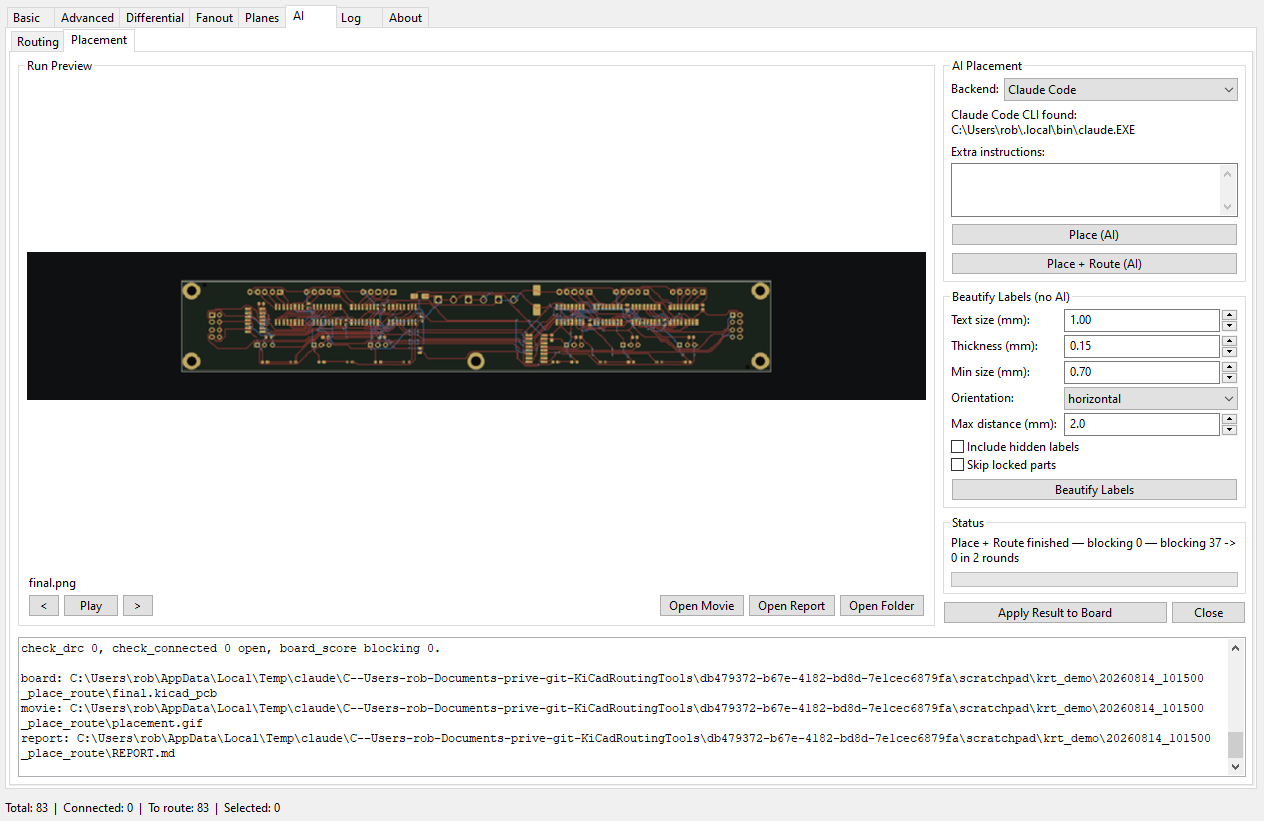
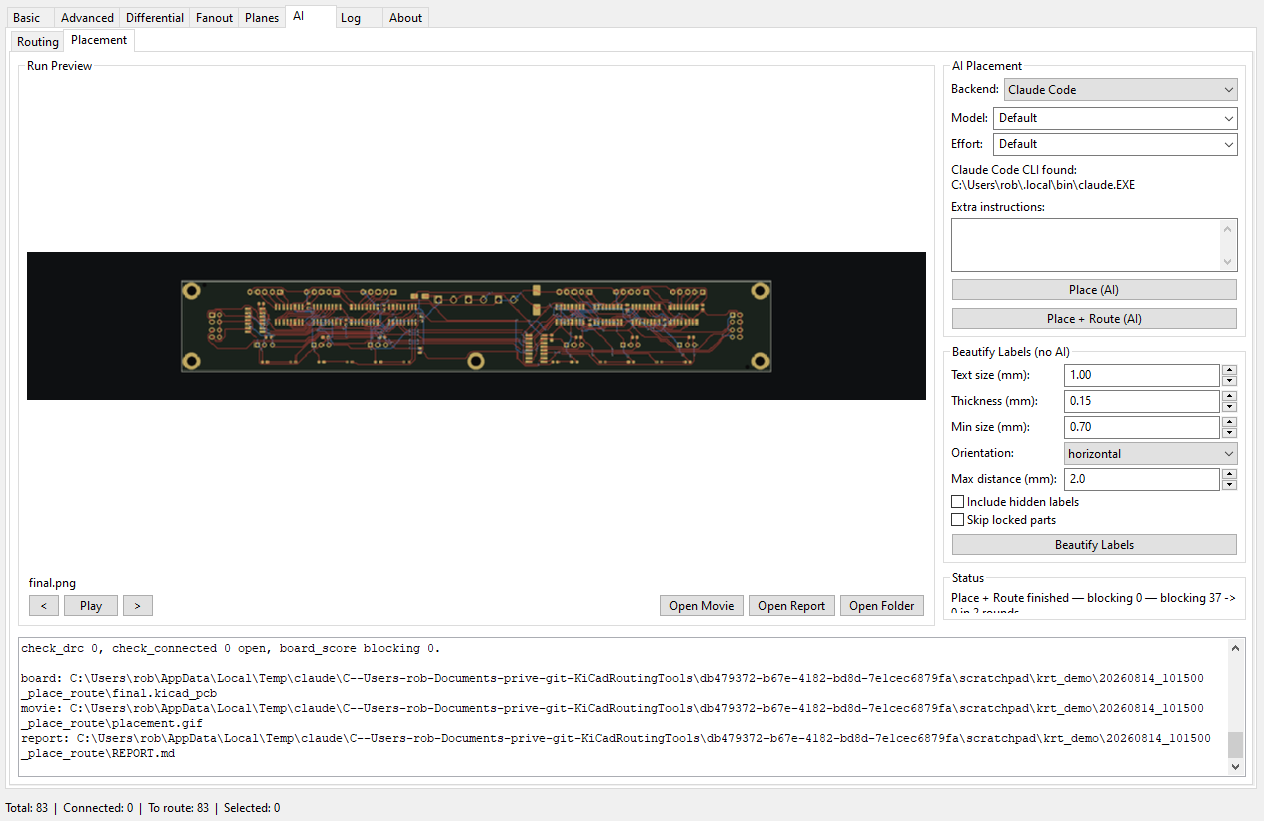
Placement sub-tab: own Model/Effort dropdowns
The tab no longer borrows the AI tab's Claude entries: it gets its own
editable Model/Effort combos under the Backend dropdown (suggestions +
tooltips from the selected backend; "Default" = pass no flag), repopulated
on backend change with a typed value preserved. swig_gui drops the
_placement_ai_params bridge; reset-all resets the trio; settings persist
placement_model/placement_effort (roundtrip gate: 185 keys clean).

Pinned end to end: the fake CLI dumps its argv, and the gate asserts a
model/effort chosen in the dropdowns arrives as --model/--effort in the
launched command (29 checks clean). docs screenshots refreshed.

Claude-Session: https://claude.ai/code/session_014oJarAtMDKL3eVoGxynPMe

Changed region(s): [[0.7405, 0.1218, 0.9873, 0.7613]]

diff --git a/kicad_routing_plugin/placement_gui.py b/kicad_routing_plugin/placement_gui.py
@@ -49,6 +49,9 @@ for _sib in ('py_placer', 'py_tools'):
 
 MODE_LABELS = {"place": "Place", "place_route": "Place + Route"}
 
+# "Default" combo entry = don't pass the model/effort flag (ai_gui convention).
+DEFAULT_CHOICE = "Default"
+
 # Transcript control cap: an hours-long stream-json run grows without bound;
 # when the text exceeds the cap the oldest quarter is dropped.
 _TRANSCRIPT_CAP = 1024 * 1024
@@ -420,15 +423,13 @@ class PlacementTab(wx.Panel):
     """Placement sub-tab of the AI notebook (see module docstring)."""
 
     def __init__(self, parent, pcb_data, board_filename, on_complete=None,
-                 append_log=None, sync_pcb_data_callback=None,
-                 get_claude_params=None):
+                 append_log=None, sync_pcb_data_callback=None):
         super().__init__(parent)
         self.pcb_data = pcb_data
         self.board_filename = board_filename
         self.on_complete = on_complete
         self.append_log = append_log or (lambda text: None)
         self.sync_pcb_data_callback = sync_pcb_data_callback
-        self.get_claude_params = get_claude_params
         # The backend dropdown shows every harness but only
         # PLACEMENT_SUPPORTED_BACKENDS can actually be selected (today:
         # Claude Code - the skills must write, and e.g. opencode's analysis
@@ -477,11 +478,22 @@ class PlacementTab(wx.Panel):
         self.backend_choice.SetToolTip(
             "Harness that drives the placement skills. Only Claude Code is "
             "supported today (placement runs must WRITE, and the other "
-            "harnesses' agents deny edits); more harnesses later. "
-            "Model/effort come from the AI tab's Claude entries.")
+            "harnesses' agents deny edits); more harnesses later.")
         self.backend_choice.Bind(wx.EVT_CHOICE, self._on_backend_choice)
         backend_row.Add(self.backend_choice, 1)
         ai_sizer.Add(backend_row, 0, wx.EXPAND | wx.ALL, 3)
+        sel_grid = wx.FlexGridSizer(cols=2, vgap=3, hgap=4)
+        sel_grid.AddGrowableCol(1)
+        sel_grid.Add(wx.StaticText(self, label="Model:"), 0,
+                     wx.ALIGN_CENTER_VERTICAL)
+        self.model_choice = wx.ComboBox(self, value=DEFAULT_CHOICE, choices=[])
+        sel_grid.Add(self.model_choice, 0, wx.EXPAND)
+        sel_grid.Add(wx.StaticText(self, label="Effort:"), 0,
+                     wx.ALIGN_CENTER_VERTICAL)
+        self.effort_choice = wx.ComboBox(self, value=DEFAULT_CHOICE, choices=[])
+        sel_grid.Add(self.effort_choice, 0, wx.EXPAND)
+        ai_sizer.Add(sel_grid, 0, wx.EXPAND | wx.ALL, 3)
+        self._populate_ai_combos()
         self.cli_status_label = wx.StaticText(self, label="")
         ai_sizer.Add(self.cli_status_label, 0, wx.EXPAND | wx.ALL, 3)
         self.extra_instructions = wx.TextCtrl(
@@ -568,6 +580,39 @@ class PlacementTab(wx.Panel):
         self.status_text.Wrap(290)
         self.Layout()
 
+    def _populate_ai_combos(self):
+        """Load the selected backend's model/effort suggestions, keeping a
+        non-default entry the user already typed (AITab per-backend-memory
+        semantics collapse to this while only one backend is supported)."""
+        for ctrl, suggestions, tooltip in (
+                (self.model_choice, self.backend.model_suggestions,
+                 self.backend.model_tooltip),
+                (self.effort_choice, self.backend.effort_suggestions,
+                 self.backend.effort_tooltip)):
+            current = ctrl.GetValue().strip()
+            ctrl.Set(list(suggestions))
+            ctrl.SetValue(current or DEFAULT_CHOICE)
+            ctrl.SetToolTip(tooltip)
+
+    @staticmethod
+    def _combo_value(ctrl):
+        value = ctrl.GetValue().strip()
+        return None if not value or value == DEFAULT_CHOICE else value
+
+    def get_model_value(self):
+        """The model flag value for placement runs (None = CLI default)."""
+        return self._combo_value(self.model_choice)
+
+    def set_model_value(self, value):
+        self.model_choice.SetValue(value or DEFAULT_CHOICE)
+
+    def get_effort_value(self):
+        """The effort flag value for placement runs (None = CLI default)."""
+        return self._combo_value(self.effort_choice)
+
+    def set_effort_value(self, value):
+        self.effort_choice.SetValue(value or DEFAULT_CHOICE)
+
     def _on_backend_choice(self, event):
         bid = BACKEND_IDS[self.backend_choice.GetSelection()]
         if bid not in PLACEMENT_SUPPORTED_BACKENDS:
@@ -580,6 +625,7 @@ class PlacementTab(wx.Panel):
                 "that today.")
             return
         self.backend = BACKENDS[bid]
+        self._populate_ai_combos()
         self._refresh_cli_status()
 
     def get_backend_value(self):
@@ -593,6 +639,7 @@ class PlacementTab(wx.Panel):
             PLACEMENT_SUPPORTED_BACKENDS[0]
         self.backend = BACKENDS[bid]
         self.backend_choice.SetSelection(BACKEND_IDS.index(bid))
+        self._populate_ai_combos()
         self._refresh_cli_status()
 
     def _refresh_cli_status(self):
@@ -641,9 +688,8 @@ class PlacementTab(wx.Panel):
             self.backend, workdir, staged, mode,
             extra=self.extra_instructions.GetValue())
 
-        params = self.get_claude_params() if self.get_claude_params else {}
-        model = params.get('model') or None
-        effort = params.get('effort') or None
+        model = self.get_model_value()
+        effort = self.get_effort_value()
 
         label = MODE_LABELS[mode]
         self._set_running_ui(True)

diff --git a/tests/gui_parity/test_placement_fake_run.py b/tests/gui_parity/test_placement_fake_run.py
@@ -132,6 +132,15 @@ def main():
     check("restore of unsupported backend reverts too",
           tab.get_backend_value() == 'claude')
 
+    # Model/effort dropdowns: suggestions loaded, Default means no flag,
+    # a chosen value must reach the CLI argv (asserted post-run below).
+    check("model/effort suggestions loaded",
+          tab.model_choice.GetCount() > 1 and tab.effort_choice.GetCount() > 1)
+    check("Default resolves to no flag",
+          tab.get_model_value() is None and tab.get_effort_value() is None)
+    tab.model_choice.SetValue('opus')
+    tab.effort_choice.SetValue('high')
+
     tab._start_ai_run("place")
     check("run accepted (runner live)", tab._runner is not None)
     workdir = tab.last_workdir
@@ -193,6 +202,18 @@ def main():
               os.path.isfile(png), png)
     else:
         print("  [skip] preview render (Pillow not importable)")
+    try:
+        import json as _json
+        with open(os.path.join(workdir, "argv.json")) as f:
+            argv_seen = _json.load(f)
+    except OSError:
+        argv_seen = []
+    check("model dropdown value reached the CLI",
+          "--model" in argv_seen
+          and argv_seen[argv_seen.index("--model") + 1] == "opus", str(argv_seen))
+    check("effort dropdown value reached the CLI",
+          "--effort" in argv_seen
+          and argv_seen[argv_seen.index("--effort") + 1] == "high", str(argv_seen))
     check("RESULT parsed into pending result",
           tab._pending_result is not None
           and os.path.basename(tab._pending_result.get("board") or "")

diff --git a/kicad_routing_plugin/swig_gui.py b/kicad_routing_plugin/swig_gui.py
@@ -1819,22 +1819,11 @@ class RoutingDialog(wx.Dialog):
             on_complete=self._on_tab_operation_complete,
             append_log=self._append_log,
             sync_pcb_data_callback=self._sync_pcb_data_from_board,
-            get_claude_params=self._placement_ai_params,
         )
         self.ai_notebook.AddPage(self.placement_tab, "Placement")
         sizer.Add(self.ai_notebook, 1, wx.EXPAND)
         container.SetSizer(sizer)
         return container
-
-    def _placement_ai_params(self):
-        """Claude-pinned model/effort for the Placement sub-tab. Placement
-        runs require Claude Code regardless of the AI backend selection
-        (the opencode analysis agent denies edits), so this reads the AI
-        tab's remembered CLAUDE entries, not the current backend's."""
-        return {
-            'model': self.ai_tab.get_model_value_for('claude'),
-            'effort': self.ai_tab.get_effort_value_for('claude'),
-        }
 
     def _ai_params(self):
         """The AI tab's backend/model/effort selection, for the other tabs'
@@ -2584,6 +2573,11 @@ class RoutingDialog(wx.Dialog):
         self.ai_tab.set_backend_value(None)
         self.ai_tab.set_model_value(None)
         self.ai_tab.set_effort_value(None)
+
+        # Reset the Placement sub-tab's backend/model/effort too
+        self.placement_tab.set_backend_value(None)
+        self.placement_tab.set_model_value(None)
+        self.placement_tab.set_effort_value(None)
 
         # Reset component dropdowns to "All"
         if self.net_panel.component_dropdown:

diff --git a/kicad_routing_plugin/settings_persistence.py b/kicad_routing_plugin/settings_persistence.py
@@ -246,6 +246,8 @@ def get_dialog_settings(dialog):
         # hours-long run's stream can be tens of MB).
         'ai_active_subtab': dialog.ai_notebook.GetSelection() if hasattr(dialog, 'ai_notebook') else 0,
         'placement_backend': dialog.placement_tab.get_backend_value(),
+        'placement_model': dialog.placement_tab.get_model_value(),
+        'placement_effort': dialog.placement_tab.get_effort_value(),
         'placement_extra_instructions': dialog.placement_tab.extra_instructions.GetValue(),
         'placement_last_workdir': getattr(dialog.placement_tab, 'last_workdir', '') or '',
         'placement_labels_options': dialog.placement_tab.labels_options.get_config(),
@@ -735,6 +737,10 @@ def restore_dialog_settings(dialog, settings):
     if 'placement_backend' in settings:
         # Unsupported/unknown saved ids revert to Claude Code inside the tab.
         dialog.placement_tab.set_backend_value(settings['placement_backend'])
+    if 'placement_model' in settings:
+        dialog.placement_tab.set_model_value(settings['placement_model'])
+    if 'placement_effort' in settings:
+        dialog.placement_tab.set_effort_value(settings['placement_effort'])
     if 'placement_extra_instructions' in settings:
         dialog.placement_tab.extra_instructions.SetValue(
             settings['placement_extra_instructions'])

diff --git a/tests/gui_parity/fixtures/fake_claude.py b/tests/gui_parity/fixtures/fake_claude.py
@@ -49,6 +49,10 @@ def main():
     if not os.path.isfile(staged):
         sys.stderr.write(f"fake_claude: staged board missing: {staged}\n")
         return 2
+    # Dump the received argv (prompt elided) so the test can assert flags
+    # like --model/--effort actually reached the CLI.
+    with open(os.path.join(workdir, "argv.json"), "w") as f:
+        json.dump([a if a is not prompt else "<prompt>" for a in argv], f)
 
     emit({"type": "system", "subtype": "init", "model": "fake-model",
           "claude_code_version": "0.0-test", "cwd": workdir,
